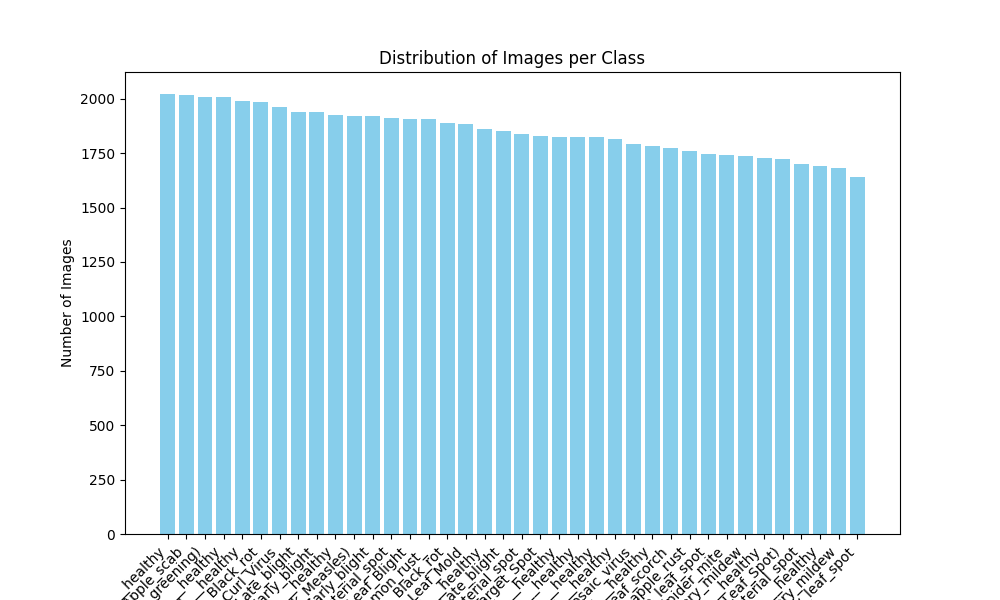
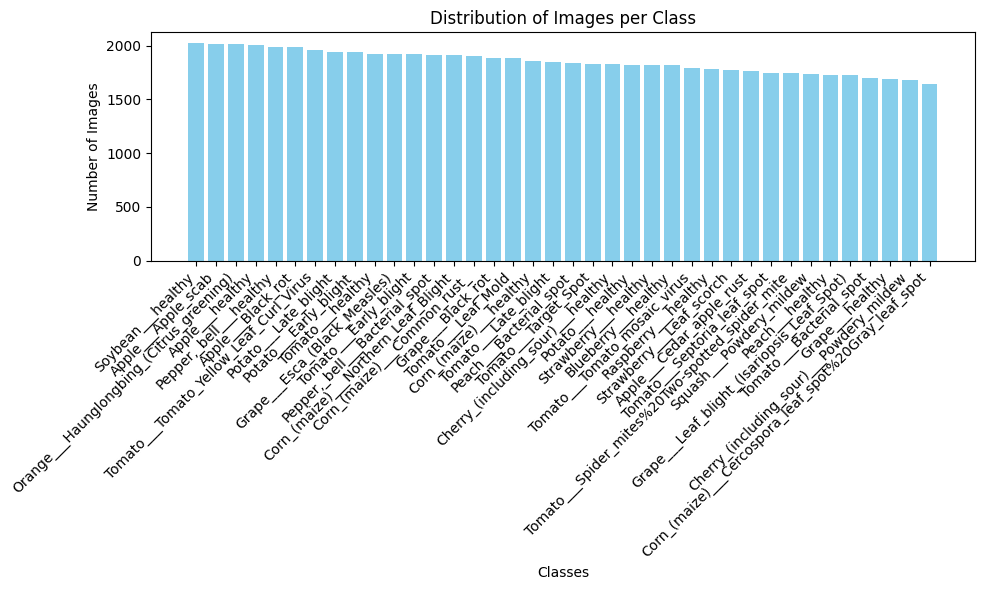
graphs

diff --git a/PD_Classifier.py b/PD_Classifier.py
@@ -30,6 +30,7 @@ def plot_label_distribution(df):
     labels = [row['label'] for row in label_counts]
     counts = [row['count'] for row in label_counts]
 
+    labels = [label.split('/')[-1] for label in labels]
     plt.figure(figsize=(10, 6))
     plt.bar(labels, counts, color='skyblue')
     plt.xlabel('Classes')
@@ -37,9 +38,9 @@ def plot_label_distribution(df):
     plt.title('Distribution of Images per Class')
     plt.xticks(rotation=45, ha='right')
     plt.tight_layout()
-    plt.savefig('new_class_distributions.png')
+    plt.savefig('new_class_distributions.png', bbox_inches='tight')
 
-def plot_label_distribution(df):
+def plot_healthy_vs_diseased_distribution(df):
     # Get the unique clean labels
     unique_clean_labels = [row.label for row in df.select("label").distinct().collect()]
 
@@ -94,6 +95,8 @@ if __name__ == "__main__":
     train.show()
 
     plot_label_distribution(train)
+
+    # plot_healthy_vs_diseased_distribution(train)
 
     spark.stop()
     
